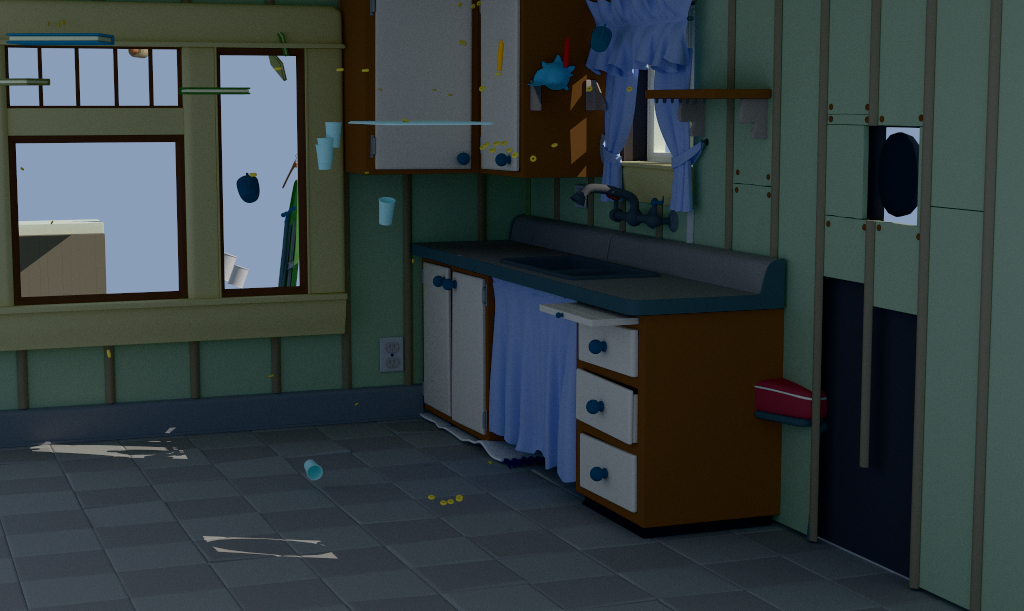
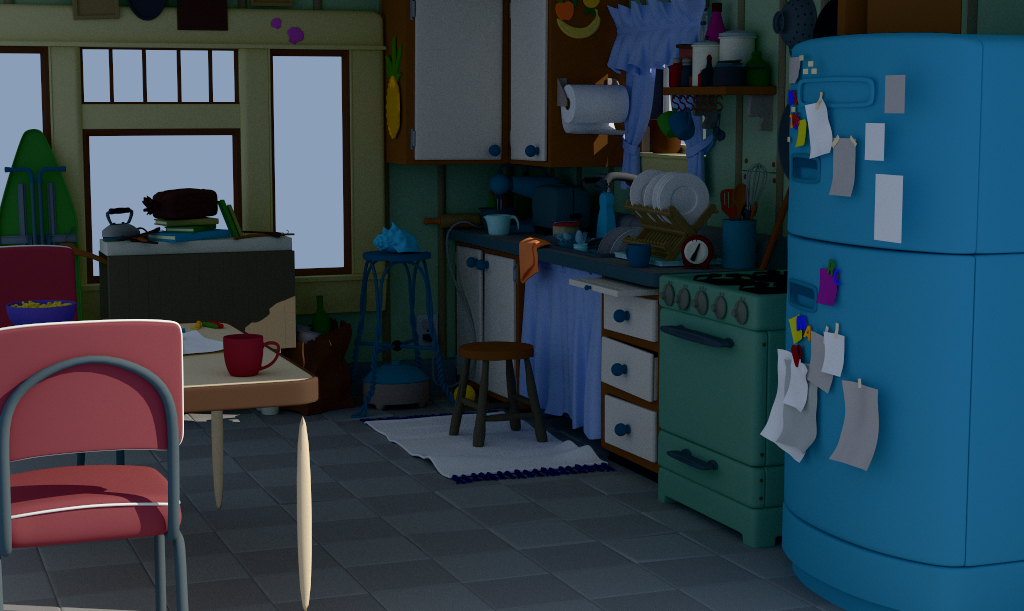
Place an instanced mesh by both of its transforms
The Kitchen Set was missing its refrigerator, its stove, its table and its
chairs, and the props that were visible floated near the window. Spotted
against hdCodex's image of the same stage.

Nothing was missing. The stage holds 1788 mesh instances and hdClaude
published 1788, every one in the wrong place. Kitchen_set_instanced.usd is
native USD instancing, so every rprim lives inside a prototype and has two
transforms that both matter: its own, which places the mesh within the
prototype, and its instancer's, which places the prototype in the world. The
mesh adapter used the instancer's alone, which collapses every mesh of a model
onto that model's origin. 1460 of the Kitchen Set's 1462 meshes carry a
non-identity transform inside their prototype, some translating a couple of
hundred units, so each model's parts scattered across the room or out of frame
-- and the failure reads as absent geometry rather than as displaced geometry,
which is how it survived being looked at.

Composed as mesh * instance: USD composes a row vector's transforms left to
right, which is what hdEmbree writes as _transform * transforms[i] and what
hdClaude's own instancer already did for its primvars and its nested case. The
adapter was the one place that did not.

Gallery re-rendered. Only the kitchen moved -- every other scene is
bit-identical, so no other stage had a non-identity transform inside a
prototype. Its RMS against hdCodex falls from 0.194 to 0.074.
[…]

diff --git a/src/hydra/mesh.cpp b/src/hydra/mesh.cpp
@@ -649,8 +649,23 @@ void HdClaudeMesh::Sync(HdSceneDelegate* sceneDelegate,
     // the parent chain -- the instancer's own transform -- so reading it as the
     // per-instance list draws a point-instanced prototype exactly once, which
     // is how the OpenChessSet lost most of its pieces.
+    //
+    // An instanced rprim's own transform is *not* its world transform: it
+    // places the mesh within the prototype, and the instancer places the
+    // prototype. Both are needed. Dropping the first collapses every mesh of a
+    // model onto that model's origin, which is a failure that reads as missing
+    // geometry rather than as misplaced geometry -- an asset whose parts are
+    // authored a couple of hundred units from its root ends up scattered
+    // around the room or inside a wall. Pixar's Kitchen Set is 1462 meshes of
+    // which 1460 are placed this way, so it lost its refrigerator, its stove,
+    // its table and its chairs while still reporting every instance present.
+    //
+    // Local first, then the placement: USD composes a row vector's transforms
+    // left to right, so `mesh * instance` is the mesh taken into the
+    // prototype and the prototype into the world.
+    const GfMatrix4d meshTransform = sceneDelegate->GetTransform(id);
     if (GetInstancerId().IsEmpty()) {
-        entry.transforms.push_back(ToTransform(sceneDelegate->GetTransform(id)));
+        entry.transforms.push_back(ToTransform(meshTransform));
     } else {
         VtMatrix4dArray transforms;
         HdInstancer* instancer =
@@ -660,7 +675,7 @@ void HdClaudeMesh::Sync(HdSceneDelegate* sceneDelegate,
         }
         entry.transforms.reserve(transforms.size());
         for (const GfMatrix4d& matrix : transforms) {
-            entry.transforms.push_back(ToTransform(matrix));
+            entry.transforms.push_back(ToTransform(meshTransform * matrix));
         }
         if (entry.transforms.empty()) {
             // An instancer with no instances draws nothing. Publishing the

diff --git a/docs/roadmap.md b/docs/roadmap.md
@@ -32,8 +32,8 @@ A blocked phase must name what blocks it.
 | 4 | `genglsl_pt` MaterialX target: eval, sample, pdf, combinators | In progress | all 22 overrides; `standard_surface` and `open_pbr_surface` compile; energy and probability-mass validated on GPU for 10 closures and combinators; the generated geometry setter assigns every member it declares, so object-space patterns and texture coordinates reach a material instead of reading undefined memory; screen-space derivatives are defined as zero, which is a path tracer's actual filter width, so an inherited node that asks for one generates instead of failing to compile; and the bitangent is taken from the kernel rather than rebuilt as `cross(N, T)`, because its sign belongs to the parameterisation and a mirrored UV island -- how the second half of a symmetric asset is laid out -- inverts every normal-mapped detail without it. Remaining: chi-squared agreement |
 | 5 | Wavefront integrator: queues, sort, per-material dispatch | In progress | raygen, extend, environment, per-material shade, shadow, film; compaction between bounces; the counting sort by material and indirect dispatch throughout, asserted against the GPU-written counts (2336 camera hits split 1169/1167 across two materials, matching the shaded pixels exactly); the gate's scaling measurement, at 512x512 with a 32-node fractal graph -- 8.7 ms with neither quad heavy, 18.6 ms with one, 29.1 ms with both, so one heavy material costs 0.45 of what two cost rather than nearly all of it; images verified for direct lighting, per-material dispatch and cast shadows; a sampled direction is evaluated by the closure whose side it left on, so a refraction reaches the transmission branch instead of being terminated as impossible. The tangent frame handed to a material is solved from the triangle's texture coordinates rather than taken from an edge, which is the frame a tangent-space normal map is actually defined against -- asserted by a material whose albedo is its own tangent, on a quad whose `u` runs across its edges -- and per-corner normals are indexed by primitive, so a crease stays a crease. Remaining: sort granularity, once there is a scene that makes the choice matter |
 | 6 | Spectral transport, lights, MIS, film | In progress | the analytic UsdLux set -- rect, disk, sphere, cylinder, distant -- sampled by NEE, with cone and focus shaping and colour temperature; a dome light supplies a constant or textured environment, in USD's own latitude-longitude orientation; exposure control; film accumulates progressively. The environment is sampled as one more emitter by next-event estimation and weighted against BSDF sampling by the balance heuristic -- the analytic lights deliberately are not, since nothing can hit them -- and a white furnace confirms the estimator: a 0.8 Lambertian under a unit sky renders 0.811 at 256 samples, where the closed form is 0.800. Remaining: hero-wavelength transport, MIS among the analytic lights once they are hittable, light-power selection, a cosine or luminance-importance environment density, IES profiles, light filters, geometry lights |
-| 7 | Hydra delegate: adapters, render pass, AOVs, settings | In progress | plugin discovered as "Claude GPU Path Tracer"; `UsdPreviewSurface` networks shade through MaterialX's own `ND_UsdPreviewSurface_surfaceshader` rather than falling back to `displayColor`, which is 137 of Intel Sponza's materials; mesh, material, light, camera, instancer and render-buffer adapters -- point-instanced geometry is placed by hdClaude's own `HdInstancer`, since the stock one computes nothing and `GetInstancerTransforms` returns the instancer's transform rather than its instances; progressive render pass; all three `gallery/shader_ball_*.usda` scenes render lit and materially distinct; textures load through Hio and bind bindlessly, and the interpolated texture coordinate reaches the material -- asserted by a material whose albedo is its own UV -- including a face-varying one, read from the prim's primvar descriptors and triangulated per corner, which is how a UV seam and a textured quad are both authored. textures arrive the way round they were decoded, asserted by a four-quadrant image whose corners must land where they are named; an image node with no file reads its declared default rather than the failure placeholder; and a material reading UVs through `geompropvalue` gets them. a `<UDIM>` token expands to the first tile the resolver finds, and every component type Hio decodes is accepted, so a 16-bit mask and a set authored on tile 1003 both load; an input whose name or type the linked MaterialX does not declare is dropped with a warning rather than costing the material; and a `UsdPrimvarReader` is rewritten into the `geompropvalue` it wraps, whose `geomprop` MaterialX otherwise cannot read through the nodegraph interface. Face-varying texture coordinates survive refinement, through an OpenSubdiv face-varying channel rather than as vertex data, which is what keeps a seam a seam. A texture's colour space comes from the material rather than from the file format: `HioImage` answers from the bytes alone and calls every 8-bit three-channel image sRGB, which is right for a colour map and wrong for the normal, roughness and metalness maps shipped in the same JPEGs, so the `colorspace` attribute MaterialX authors, the `sourceColorSpace` input `UsdUVTexture` authors, and failing both the image node's own output type are each read, and the decision is cached alongside the path. Remaining: real UDIM tile selection (the tile is `1001 + floor(u) + 10*floor(v)`, so a set spanning more than one tile is currently shaded with the first that exists), a second UV set, primvar geomprops beyond position, normal, tangent and UV, per-texture wrap and filter modes, depth and id AOVs, and coercing an input whose declared type differs from the authored one only by colour-versus-vector rather than dropping it -- `UsdPreviewSurface`'s `normal` is `normal3f` in USD and arrives as `color3`, where MaterialX 1.39.3 declares `vector3`, so every one of Intel Sponza's normal maps is currently pruned |
-| 8 | Gallery parity with hdCodex baselines | In progress | `render_gallery.bat` renders, times, display-transforms and gates every scene, and rewrites the timing table; `hdClaudeDisplayTransform` and `hdClaudeImageDiff` are the two tools behind it, and the gate fails on RMS, worst pixel, failed-pixel count, a black image, or a non-finite sample. All ten scenes render, with baselines, timings and the machine record ([gallery.md](../gallery.md)); each names what its image still gets wrong. Parity itself is untouched -- no scene matches hdCodex yet, and Sponza in particular is far darker |
+| 7 | Hydra delegate: adapters, render pass, AOVs, settings | In progress | plugin discovered as "Claude GPU Path Tracer"; `UsdPreviewSurface` networks shade through MaterialX's own `ND_UsdPreviewSurface_surfaceshader` rather than falling back to `displayColor`, which is 137 of Intel Sponza's materials; mesh, material, light, camera, instancer and render-buffer adapters -- point-instanced and natively instanced geometry is placed by hdClaude's own `HdInstancer`, since the stock one computes nothing and `GetInstancerTransforms` returns the instancer's transform rather than its instances, and an instanced rprim is placed by *both* its own transform and its instancer's -- the first takes the mesh into the prototype, the second the prototype into the world, and using the second alone collapses every mesh of a model onto that model's origin, which is what had scattered Pixar's Kitchen Set and read as a refrigerator, a stove and a table that were simply absent; progressive render pass; all three `gallery/shader_ball_*.usda` scenes render lit and materially distinct; textures load through Hio and bind bindlessly, and the interpolated texture coordinate reaches the material -- asserted by a material whose albedo is its own UV -- including a face-varying one, read from the prim's primvar descriptors and triangulated per corner, which is how a UV seam and a textured quad are both authored. textures arrive the way round they were decoded, asserted by a four-quadrant image whose corners must land where they are named; an image node with no file reads its declared default rather than the failure placeholder; and a material reading UVs through `geompropvalue` gets them. a `<UDIM>` token expands to the first tile the resolver finds, and every component type Hio decodes is accepted, so a 16-bit mask and a set authored on tile 1003 both load; an input whose name or type the linked MaterialX does not declare is dropped with a warning rather than costing the material; and a `UsdPrimvarReader` is rewritten into the `geompropvalue` it wraps, whose `geomprop` MaterialX otherwise cannot read through the nodegraph interface. Face-varying texture coordinates survive refinement, through an OpenSubdiv face-varying channel rather than as vertex data, which is what keeps a seam a seam. A texture's colour space comes from the material rather than from the file format: `HioImage` answers from the bytes alone and calls every 8-bit three-channel image sRGB, which is right for a colour map and wrong for the normal, roughness and metalness maps shipped in the same JPEGs, so the `colorspace` attribute MaterialX authors, the `sourceColorSpace` input `UsdUVTexture` authors, and failing both the image node's own output type are each read, and the decision is cached alongside the path. Remaining: real UDIM tile selection (the tile is `1001 + floor(u) + 10*floor(v)`, so a set spanning more than one tile is currently shaded with the first that exists), a second UV set, primvar geomprops beyond position, normal, tangent and UV, per-texture wrap and filter modes, depth and id AOVs, and coercing an input whose declared type differs from the authored one only by colour-versus-vector rather than dropping it -- `UsdPreviewSurface`'s `normal` is `normal3f` in USD and arrives as `color3`, where MaterialX 1.39.3 declares `vector3`, so every one of Intel Sponza's normal maps is currently pruned |
+| 8 | Gallery parity with hdCodex baselines | In progress | `render_gallery.bat` renders, times, display-transforms and gates every scene, and rewrites the timing table; `hdClaudeDisplayTransform` and `hdClaudeImageDiff` are the two tools behind it, and the gate fails on RMS, worst pixel, failed-pixel count, a black image, or a non-finite sample. All ten scenes render, with baselines, timings and the machine record ([gallery.md](../gallery.md)); each names what its image still gets wrong. Parity itself is untouched -- no scene matches hdCodex yet, and Sponza in particular is far darker. Remaining: a renderer-owned scene that checks instance placement by construction -- a prototype whose meshes are deliberately offset from its root, instanced several times -- because the gate compares each render against its own committed baseline and so cannot catch a baseline that was already wrong; the Kitchen Set's was, from the day it was adopted, and only hdCodex's image of the same stage showed it |
 | 9 | Interactive contract: frame identity, per-slot resources, real overlap | Not started | - |
 | 10 | Temporal foundation: jitter, motion vectors, guides, history reset | Not started | - |
 | 11 | Renderer-native reconstruction fallback (any Vulkan device) | Not started | - |

diff --git a/gallery.md b/gallery.md
@@ -84,16 +84,16 @@ and a device-loss investigation cannot start without it. hdCodex spent days on a
 <!-- gallery-timings:start -->
 | Scene | Measured | Wall time | SHA-256 | Device | Settings |
 |---|---:|---:|---|---|---|
[20 lines of base64/hex data omitted]
 <!-- gallery-timings:end -->
 
 ## Against hdCodex
@@ -109,7 +109,7 @@ is the crudest possible comparison and the one that separates "different" from
 | StandardShaderBall BubbleGum | 0.077 | 0.747 | |
 | StandardShaderBall Glass | 0.087 | 0.672 | dispersion still absent; transport is RGB |
 | Subdivision Feature Matrix | 0.142 | 0.316 | |
-| Pixar's KitchenSet | 0.194 | 0.230 | |
+| Pixar's KitchenSet | 0.074 | 0.235 | RMS fell by more than half once instanced meshes stopped losing their transform inside the prototype |
 | OpenChessSet | 0.108 | 0.546 | halved, and the image brightened, once its normal maps stopped being read in an edge-derived frame and decoded as sRGB |
 | OpenPBR Playground | 0.235 | 0.388 | 132 `<normalmap>` nodes, so the same two defects dominated it |
 | Intel Sponza | 0.391 | 0.004 | hdCodex shades 137 `UsdPreviewSurface` materials as flat grey; hdClaude shades the brick and stone the asset authors, in an arcade lit only by a stand-in sky |
@@ -249,7 +249,7 @@ yet transported, so the material reads as a diffuse surface.
 
 ### Pixar's KitchenSet
 
-![The Kitchen Set: green cabinets, a sink and a counter of props along one wall, lit through a window and an open doorway](gallery/pixar_kitchen.jpg)
+![A crowded kitchen at dusk: a blue refrigerator papered with notes on the right, a green stove beside it, a counter of crockery and utensils, a stool and a rug, and a table with a red chair and a red mug in the left foreground](gallery/pixar_kitchen.jpg)
 
 **Source:** [OpenUSD Kitchen Set](https://openusd.org/release/dl_kitchen_set.html)
 
@@ -266,6 +266,16 @@ the cause was an acceleration-structure scratch address that did not meet
 `minAccelerationStructureScratchOffsetAlignment`, which is a build requirement
 no allocator enforces. Its unbound meshes fall back to `displayColor` as the
 asset intends.
+
+Until recently its refrigerator, stove, table and chairs were simply not in the
+image, and the props that were had drifted into the air. Nothing was missing:
+all 1788 mesh instances the stage holds were published, each at its instancer's
+placement and *without* its own transform inside the prototype, which 1460 of
+the 1462 meshes have. Every model's parts therefore collapsed onto that model's
+origin. It is the defect that says most about this gallery's limits -- the gate
+compares a render against its own committed baseline, so it could never flag a
+baseline that was wrong when adopted, and it took hdCodex's image of the same
+stage to see it. RMS against hdCodex fell from 0.194 to 0.074.
 
 ### Collective Project 001
 

diff --git a/docs/implementation-notes.md b/docs/implementation-notes.md
@@ -1689,3 +1689,53 @@ why the two new render tests assert on *direction*: a material whose albedo is
 its own tangent must come back green on a quad whose `u` runs along world +Y,
 and one whose albedo is its own normal must show the two triangles of a quad
 differing when their normals are authored per corner.
+
+---
+
+## 2026-09-06 -- An instanced rprim's transform is not its world transform
+
+The Kitchen Set was missing its refrigerator, its stove, its table and its
+chairs, while the props that were visible floated in the air near the window.
+Reported by comparing against hdCodex's baseline, which has all of them.
+
+Nothing was missing. The trace said 1462 prototypes and 1788 instances, and
+walking the stage with `Usd.TraverseInstanceProxies` says the stage holds
+exactly 1788 mesh instances. Every prim was published, with the right count, and
+put in the wrong place.
+
+`Kitchen_set_instanced.usd` is native USD instancing, so every rprim on this
+stage lives inside a prototype -- the paths are all
+`/UsdNiPropagatedPrototypes/.../UsdNiInstancer/UsdNiPrototype/Geom/...`. For
+such an rprim there are *two* transforms and both are needed: the rprim's own,
+which places the mesh within the prototype, and the instancer's, which places
+the prototype in the world. The mesh adapter used the instancer's alone.
+
+That collapses every mesh of a model onto its model's origin. 1460 of the
+Kitchen Set's 1462 meshes carry a non-identity transform inside their
+prototype, several with translations of a couple of hundred units, so the parts
+of each model scattered around the room -- a cup where its table's root is, a
+refrigerator's panels somewhere outside the frame or inside a wall. The failure
+therefore reads as *missing geometry*, not as misplaced geometry, which is why
+it survived a look at the image.
+
+The composition is `mesh * instance`: USD composes a row vector's transforms
+left to right, so the mesh goes into the prototype and the prototype into the
+world. hdEmbree writes the same thing as `_transform * transforms[i]`, and
+hdClaude's own instancer already composed in that direction -- a translation
+primvar is applied as `step * transform` and a nested instancer as
+`inner * outer`. The adapter was the one place that did not.
+
+**Why nothing caught it.** The render tests build a `Scene` directly, so they
+never reach the mesh adapter; there is no Hydra-linked test target at all. And
+the gallery gate compares each render against its *committed baseline*, so it
+catches a change and cannot catch a baseline that was wrong when it was
+committed. This one was: the kitchen has looked like this since it was first
+adopted. A gate built on self-comparison has that blind spot by construction,
+and the only thing that closed it here was a second renderer's image of the
+same stage.
+
+That is an argument for the "Against hdCodex" table earning its place, and for
+a renderer-owned scene whose correct appearance is checkable by construction --
+a prototype whose meshes are deliberately offset from its root, instanced
+several times, so that dropping either transform is unmistakable. Recorded in
+docs/roadmap.md rather than built here.
